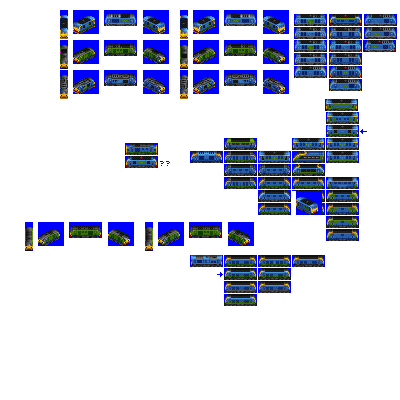
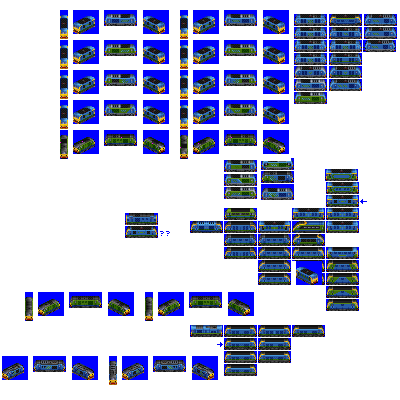
Change: WIP on Constance

diff --git a/src/vehicles/constance.py b/src/vehicles/constance.py
@@ -17,7 +17,7 @@ def main(roster_id):
         pantograph_type="z-shaped-single",
         gen=6,
         intro_year_offset=-2,  # introduce earlier than gen epoch by design
-        additional_liveries=[],
+        additional_liveries=["SWOOSH_LESS", "SWOOSH", "FREIGHTLINER_GBRF"],
         sprites_complete=False,
         sprites_additional_liveries_needed=True, # banger blue?
     )
